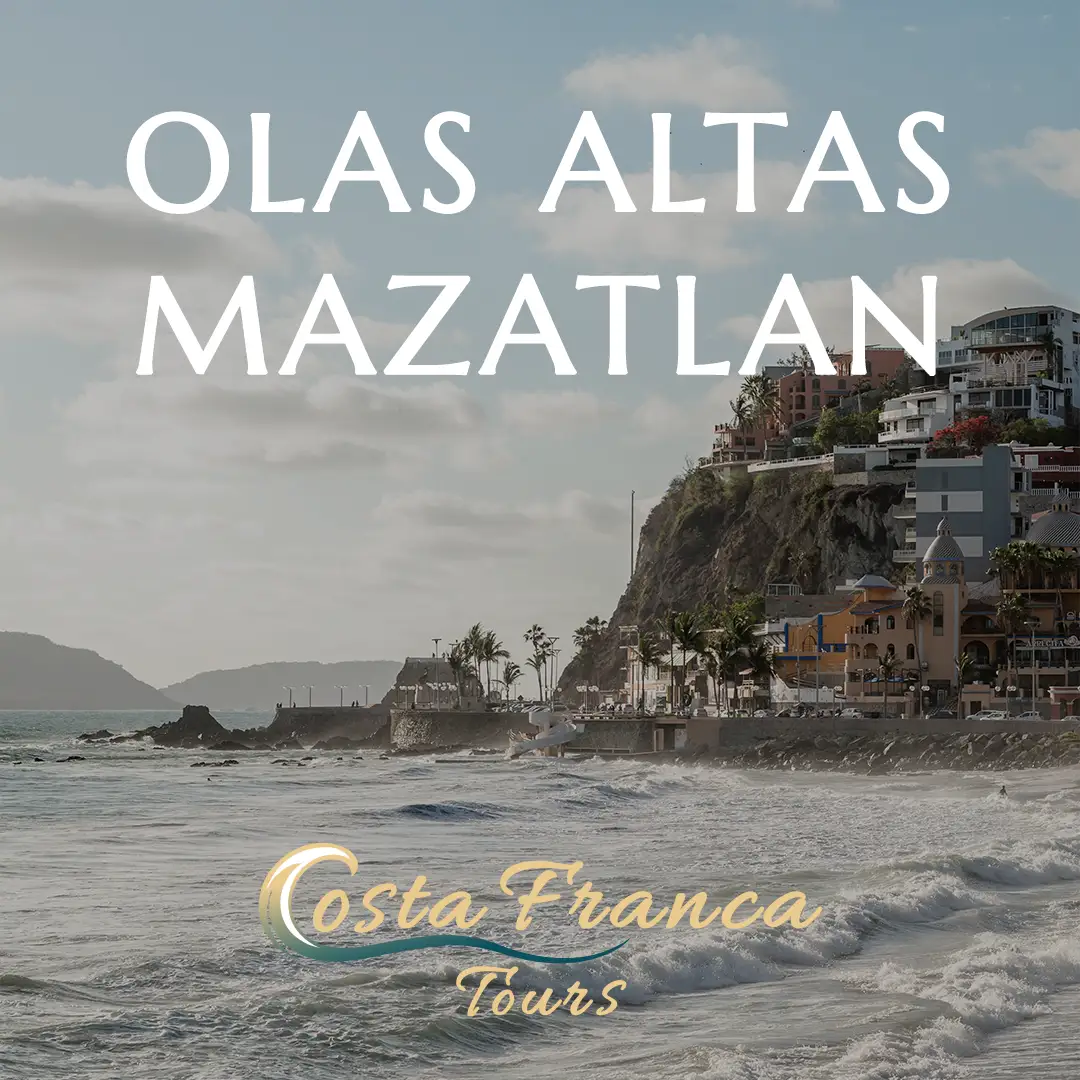
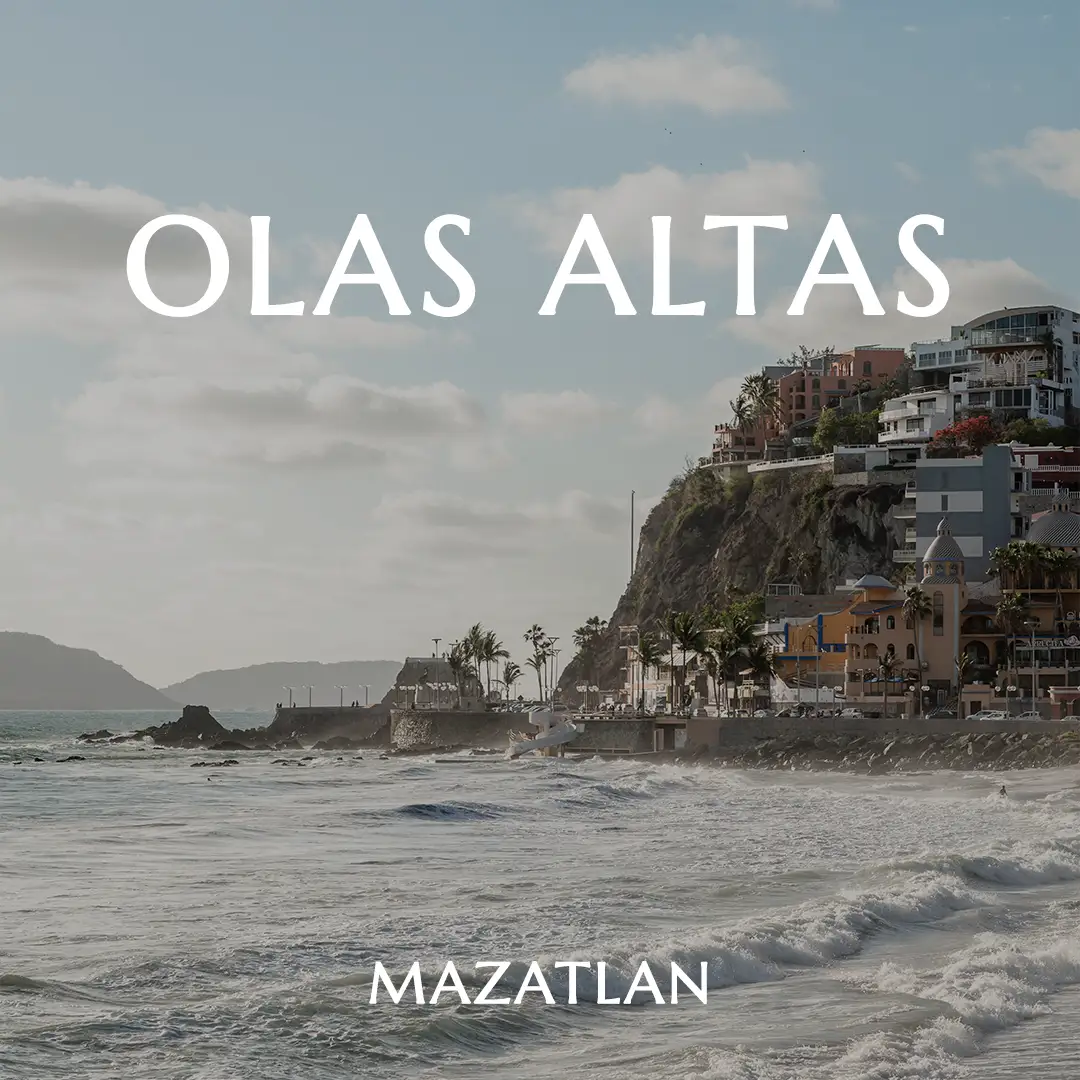
feat(blog): render social images in article; fix twitterImage path, OG MIME types & SEO
Fixes and improvements scoped entirely to the blog. No changes to tours,
homepage, or any shared layout outside of blog routes.

Bug fixes
- Fix twitterImage filename typo in posts.ts: "xcard-olas-altas.webp" →
  "x-card-olas-altas.webp" (file was resolving to a 404)
- Fix OG image MIME type declarations from "image/jpeg" to "image/webp"
  in both [slug]/page.tsx and blog/page.tsx
- Replace hardcoded i18n ternaries in social section with existing t()
  keys: blog_share_label, blog_pin, blog_share_on

Features
- Add social images section to article layout ([slug]/page.tsx): renders
  Pinterest (2:3), Instagram (1:1), and X/Twitter (16:9) crops as visible
  clickable cards that link to each platform's native share/save intent
- Blog listing page (blog/page.tsx) now uses posts[0].ogImage as its OG
  image instead of the generic OP.jpg, with a graceful fallback when no
  posts exist

SEO
- Expand tags/tagsEn with long-tail keywords targeting Mazatlán travel
  searches (e.g. "things to do in Mazatlan", "Hotel Belmar Mazatlan")
- Rewrite excerpt/excerptEn to ~155 chars with primary keyword in the
  opening clause for better meta description CTR
- Enrich all image alt/altEn with landmark names and location context
- Add CTA closing paragraph (ES + EN) funneling readers to Costa Franca Tours
- Minor content improvements: Cerro de la Nevería etymology, geo-specific
  phrasing throughout the article body

Changed region(s): [[0.1222, 0.0917, 0.8861, 0.3667], [0.2139, 0.7639, 0.7639, 0.9472]]

diff --git a/src/lib/posts.ts b/src/lib/posts.ts
@@ -47,13 +47,14 @@ export const posts: BlogPost[] = [
   {
     id: "1",
     slug: "olas-altas-mazatlan",
-    title: "Descubre Olas Altas: El Corazón Histórico y Vibrante del Malecón",
+    title:
+      "Descubre Olas Altas: El Corazón Histórico y Vibrante del Malecón de Mazatlán",
     titleEn:
       "Discover Olas Altas: The Historic and Vibrant Heart of the Mazatlán Malecon",
     excerpt:
-      "Descubre por qué Olas Altas es una parada obligatoria en el Malecón de Mazatlán. Conoce su playa, su historia, sus atardeceres y los mejores lugares para comer.",
+      "Descubre por qué Olas Altas es una parada obligatoria en el Malecón de Mazatlán. Explora su playa histórica, sus icónicos atardeceres del Pacífico y los mejores restaurantes frente al mar.",
     excerptEn:
-      "Discover why Olas Altas is a must-visit spot on the Mazatlán Malecon. Explore its famous beach, rich history, breathtaking sunsets, and top oceanfront restaurants.",
+      "Discover why Olas Altas is a must-visit spot on the Mazatlán Malecon. Explore its famous beach, breathtaking Pacific sunsets, iconic landmarks like Hotel Belmar, and the best oceanfront restaurants.",
     date: "2026-06-18",
     lastModified: "2026-06-18",
     author: "Juan C. Wong",
@@ -64,15 +65,30 @@ export const posts: BlogPost[] = [
       "Mazatlán",
       "Olas Altas",
       "Centro Histórico",
-      "Malecón",
-      "atardeceres",
+      "Malecón de Mazatlán",
+      "atardeceres en Mazatlán",
+      "qué hacer en Mazatlán",
+      "turismo Mazatlán",
+      "playas de Mazatlán",
+      "Hotel Belmar",
+      "Colegio Pacífico",
     ],
-    tagsEn: ["Mazatlan", "Water Front", "Sunsets", "Historic Center"],
+    tagsEn: [
+      "Mazatlan",
+      "Olas Altas beach",
+      "Mazatlan Malecon",
+      "Mazatlan Historic Center",
+      "Mazatlan sunsets",
+      "things to do in Mazatlan",
+      "Mazatlan travel guide",
+      "Hotel Belmar Mazatlan",
+      "Icebox Hill Mazatlan",
+    ],
 
     // Social Images
     ogImage: "/images/blog/olas-altas/op-olas-altas.webp",
     pinterestImage: "/images/blog/olas-altas/pinterest-olas-altas.webp",
-    twitterImage: "/images/blog/olas-altas/xcard-olas-altas.webp",
+    twitterImage: "/images/blog/olas-altas/x-card-olas-altas.webp",
     instagramImage: "/images/blog/olas-altas/instagram-olas-altas.webp",
 
     // In-body Images
@@ -80,7 +96,8 @@ export const posts: BlogPost[] = [
       {
         src: "/images/blog/olas-altas/olas-altas-manana.webp",
         alt: "Vista matutina de la playa de Olas Altas y el Cerro de la Nevería en Mazatlán",
-        altEn: "Morning view of Olas Altas beach and Icebox Hill in Mazatlán",
+        altEn:
+          "Morning view of Olas Altas beach and Icebox Hill (Cerro de la Nevería) in Mazatlán",
         width: 1200,
         height: 800,
         caption:
@@ -91,8 +108,9 @@ export const posts: BlogPost[] = [
       },
       {
         src: "/images/blog/olas-altas/olas-altas-atardecer.webp",
-        alt: "Atardecer espectacular con olas en el malecón de Olas Altas",
-        altEn: "Spectacular sunset with waves at the Olas Altas malecon",
+        alt: "Atardecer espectacular con olas rompiendo en el malecón de Olas Altas, Mazatlán",
+        altEn:
+          "Spectacular Pacific sunset with waves crashing at the Olas Altas malecon in Mazatlán",
         width: 1200,
         height: 800,
         caption:
@@ -103,9 +121,9 @@ export const posts: BlogPost[] = [
       },
       {
         src: "/images/blog/olas-altas/olas-altas-pin.webp",
-        alt: "Vista vertical del oleaje rompiendo en las rocas frente al antiguo Colegio Pacífico",
+        alt: "Vista vertical del oleaje rompiendo en las rocas frente al antiguo Colegio Pacífico en Mazatlán",
         altEn:
-          "Vertical view of waves crashing on the rocks in front of the old Colegio Pacífico",
+          "Vertical view of Pacific waves crashing on the rocks in front of the historic Colegio Pacífico building in Mazatlán",
         width: 800,
         height: 1200,
         caption:
@@ -120,25 +138,27 @@ export const posts: BlogPost[] = [
       "Visitar la Perla del Pacífico y no recorrer Olas Altas es, casi literalmente, un pecado turístico. Esta emblemática sección del Malecón de Mazatlán es donde convergen la historia, la belleza natural y la vibrante vida social del puerto.",
       "Conectando de manera fluida con el pintoresco Paseo Claussen, Olas Altas goza de una ubicación privilegiada justo a las puertas del Centro Histórico. Para que te des una idea de su excelente conectividad, se encuentra a tan solo cuatro cuadras de la animada Plazuela Machado y a ocho de la majestuosa Catedral de Mazatlán.",
       "Caminar por esta zona durante la mañana y hacerlo por la tarde son experiencias totalmente diferentes, pero igualmente cautivadoras.",
-      "Si decides dar un paseo matutino, te recibirá el resplandor de un mar azul profundo. Desde el malecón, podrás admirar la colorida arquitectura de las impresionantes mansiones que adornan el Cerro de la Nevería.",
+      "Si decides dar un paseo matutino, te recibirá el resplandor de un mar azul profundo. Desde el malecón, podrás admirar la colorida arquitectura de las impresionantes mansiones que adornan el Cerro de la Nevería, el antiguo cerro donde se almacenaba hielo para abastecer a la ciudad portuaria.",
       "Además, las mañanas son el momento perfecto para bajar a la arena, refrescarte y nadar en una de las playas más populares y con más historia desde la fundación de la ciudad.",
       "A medida que el sol comienza a bajar, la zona se transforma. Este es, sin duda, uno de los mejores puntos para apreciar el inigualable atardecer de Mazatlán. No hay nada como disfrutar de la fresca brisa del mar y escuchar cómo las olas revientan con fuerza contra las rocas mientras degustas una bebida bien fría.",
       "Olas Altas es mucho más que un paisaje; es el corazón social del puerto. Es el lugar predilecto de los mazatlecos de todas las edades para socializar, caminar y compartir tiempo con amigos y familiares. Gracias a su encanto, también es una zona muy frecuentada por la comunidad de extranjeros residentes.",
       "Si buscas practicar tu inglés u otros idiomas, el ambiente relajado del malecón lo convierte en el escenario ideal para hacer networking casual, conocer gente de todo el mundo y crear conexiones genuinas.",
-      "Tu visita no estaría completa sin explorar la oferta culinaria y arquitectónica de la zona. Olas Altas aloja una excelente selección de restaurantes y cafés con vista al mar, ideales para un desayuno relajado o una cena romántica.",
+      "Tu visita no estaría completa sin explorar la oferta culinaria y arquitectónica de la zona. Olas Altas aloja una excelente selección de restaurantes y cafés con vista al mar, ideales para un desayuno relajado con vistas al Pacífico o una cena romántica al ritmo de las olas.",
       "Aquí también se erigen icónicos edificios que son verdaderas joyas históricas del puerto, destacando el Hotel Belmar, el Hotel Freeman y el histórico Colegio Pacífico. Estas propiedades datan casi desde la constitución de la ciudad como destino turístico y visitarlas es viajar en el tiempo a la época dorada de Mazatlán.",
+      "¿Listo para vivirlo tú mismo? En Costa Franca Tours te llevamos a descubrir los rincones más auténticos del puerto. Contáctanos y diseña tu experiencia perfecta en Mazatlán.",
     ],
     contentEn: [
       "Visiting the Pearl of the Pacific without strolling through Olas Altas is practically a tourist sin. This iconic section of the Mazatlán Malecon is where rich history, natural beauty, and the port's vibrant social life seamlessly converge.",
       "Flowing directly into the scenic Paseo Claussen, Olas Altas boasts a prime oceanfront location right at the gates of the Historic Center (Centro Histórico). To give you an idea of its excellent connectivity, it sits just four blocks away from the lively Plazuela Machado and eight blocks from the majestic Mazatlán Cathedral.",
       "Walking through this area in the morning versus the afternoon offers two entirely different, yet equally captivating, experiences.",
-      "If you opt for a morning stroll, you'll be greeted by the sparkling deep blue sea. From the boardwalk, you can admire the colorful architecture of the stunning mansions perched on Icebox Hill (Cerro de la Nevería).",
+      "If you opt for a morning stroll, you'll be greeted by the sparkling deep blue sea. From the boardwalk, you can admire the colorful architecture of the stunning mansions perched on Icebox Hill (Cerro de la Nevería) — the historic hilltop once used to store ice for the port city.",
       "Furthermore, mornings are the perfect time to step down onto the sand, cool off, and swim in one of the most popular and historically significant beaches since the city's foundation.",
-      "As the sun begins to set, the area completely transforms. This is undoubtedly one of the best spots to witness an unparalleled Mazatlán sunset. There is nothing quite like enjoying the cool ocean breeze and listening to the crashing waves against the rocks while sipping on an ice-cold drink.",
-      "Olas Altas is much more than a beautiful landscape; it is the social heart of the port. It's the favorite gathering place for locals of all ages to socialize, walk, and spend quality time with friends and family. Thanks to its charm, it is also a highly frequented hub for the resident expat community.",
+      "As the sun begins to set, the area completely transforms. This is undoubtedly one of the best spots in Mazatlán to witness an unparalleled Pacific sunset. There is nothing quite like enjoying the cool ocean breeze and listening to the waves crash against the rocks while sipping on an ice-cold drink.",
+      "Olas Altas is much more than a beautiful landscape; it is the social heart of the port. It's the favorite gathering place for Mazatlán locals of all ages to socialize, walk, and spend quality time with friends and family. Thanks to its charm, it is also a highly frequented hub for the resident expat community.",
       "If you're looking to practice your Spanish or mingle with other travelers, the relaxed atmosphere of the boardwalk makes it the ideal setting for casual networking, meeting people from all over the world, and building genuine connections.",
-      "Your visit wouldn't be complete without exploring the culinary and architectural offerings of the area. Olas Altas hosts an excellent selection of oceanfront restaurants and cafes, perfect for a laid-back breakfast or a romantic sunset dinner.",
+      "Your visit wouldn't be complete without exploring the culinary and architectural offerings of the area. Olas Altas hosts an excellent selection of oceanfront restaurants and cafes, perfect for a laid-back Pacific-view breakfast or a romantic sunset dinner with the sound of the waves.",
       "Here, you will also find iconic buildings that stand as true historical jewels of the port, most notably the Hotel Belmar, the Hotel Freeman, and the historic Colegio Pacífico. These properties date back to the early days of the city's establishment as a tourist destination, and visiting them is like traveling back in time to the golden age of Mazatlán.",
+      "Ready to experience it for yourself? At Costa Franca Tours, we take you to discover the most authentic corners of the port. Contact us today and design your perfect Mazatlán experience.",
     ],
   },
 ];

diff --git a/src/app/blog/[slug]/page.tsx b/src/app/blog/[slug]/page.tsx
@@ -1,7 +1,7 @@
 import { notFound } from "next/navigation";
 import Image from "next/image";
 import Link from "next/link";
-import { ArrowLeft, Calendar, User, Clock, Tag } from "lucide-react";
+import { ArrowLeft, Calendar, User, Clock, Tag, Share2 } from "lucide-react";
 import { cookies } from "next/headers";
 import type { Metadata } from "next";
 import { posts, getPostBySlug, formatDate } from "@/lib/posts";
@@ -31,12 +31,13 @@ export async function generateMetadata({
   const pageUrl = `${baseUrl}/blog/${post.slug}`;
 
   // All images for OG — hero first, then body images (landscape preferred for cards)
+  // fix: MIME type corrected from "image/jpeg" to "image/webp" for .webp files
   const ogImages = [
     {
       url: `${baseUrl}${post.ogImage}`,
       width: 1200,
       height: 630,
-      type: "image/jpeg",
+      type: "image/webp",
       alt: post.titleEn ?? post.title,
     },
     ...(post.images ?? [])
@@ -45,7 +46,7 @@ export async function generateMetadata({
         url: `${baseUrl}${img.src}`,
         width: img.width,
         height: img.height,
-        type: "image/jpeg",
+        type: "image/webp",
         alt: img.altEn ?? img.alt,
       })),
   ];
@@ -174,6 +175,13 @@ export default async function BlogPostPage({
   });
 
   const images = post.images ?? [];
+
+  // ── i18n labels for the social images section ──────────────────────────────
+  // Use existing dictionary keys — no hardcoded strings needed.
+  const socialSectionLabel = t("blog_share_label");
+  const pinterestLabel = t("blog_pin");
+  const instagramLabel = `${t("blog_share_on")} Instagram`;
+  const xCardLabel = `${t("blog_share_on")} X / Twitter`;
 
   return (
     <>
@@ -336,6 +344,138 @@ export default async function BlogPostPage({
                 ))}
               </div>
             )}
+
+            {/* ── Social images section ──────────────────────────────────────
+                Renders the optimised social crops (Pinterest 2:3, Instagram 1:1,
+                X/Twitter 16:9) so they're visible in the article, not just in
+                <head> meta tags.  Each image is wrapped in the platform's share
+                URL so clicking it opens the native share intent.
+            ─────────────────────────────────────────────────────────────────── */}
+            <section
+              aria-label={socialSectionLabel}
+              className="mt-12 pt-8 border-t border-gray-100"
+            >
+              <div className="flex items-center gap-2 mb-6">
+                <Share2
+                  className="w-4 h-4 text-gold"
+                  aria-hidden="true"
+                />
+                <span className="text-xs font-bold uppercase tracking-wider text-navy/50">
+                  {socialSectionLabel}
+                </span>
+              </div>
+
+              <div className="grid grid-cols-1 sm:grid-cols-3 gap-4">
+                {/* Pinterest — 2:3 portrait */}
+                <a
+                  href={`https://pinterest.com/pin/create/button/?url=${encodeURIComponent(canonicalUrl)}&media=${encodeURIComponent(`${baseUrl}${post.pinterestImage}`)}&description=${encodeURIComponent(excerpt)}`}
+                  target="_blank"
+                  rel="noopener noreferrer"
+                  className="group relative block overflow-hidden rounded-xl border border-navy/8 focus-visible:ring-2 focus-visible:ring-gold focus-visible:outline-none"
+                  aria-label={pinterestLabel}
+                  style={{ boxShadow: "0 2px 12px rgba(26,58,80,0.07)" }}
+                >
+                  <div className="relative w-full aspect-[2/3] bg-navy/5">
+                    <Image
+                      src={post.pinterestImage}
+                      alt={`${title} — Pinterest`}
+                      fill
+                      className="object-cover transition-transform duration-500 group-hover:scale-105"
+                      sizes="(max-width: 640px) 100vw, 33vw"
+                    />
+                    <div
+                      className="absolute inset-0 bg-gradient-to-t from-navy/60 via-transparent to-transparent"
+                      aria-hidden="true"
+                    />
+                    <span className="absolute bottom-3 left-3 right-3 inline-flex items-center gap-1.5 text-white text-xs font-bold uppercase tracking-wider">
+                      {/* Pinterest P icon */}
+                      <svg
+                        viewBox="0 0 24 24"
+                        className="w-4 h-4 fill-current shrink-0"
+                        aria-hidden="true"
+                      >
+                        <path d="M12 0C5.373 0 0 5.373 0 12c0 5.084 3.163 9.426 7.627 11.174-.105-.949-.2-2.405.042-3.441.218-.937 1.407-5.965 1.407-5.965s-.359-.719-.359-1.782c0-1.668.967-2.914 2.171-2.914 1.023 0 1.518.769 1.518 1.69 0 1.029-.655 2.568-.994 3.995-.283 1.194.599 2.169 1.777 2.169 2.133 0 3.772-2.249 3.772-5.495 0-2.873-2.064-4.882-5.012-4.882-3.414 0-5.418 2.561-5.418 5.207 0 1.031.397 2.138.893 2.738a.36.36 0 0 1 .083.345l-.333 1.36c-.053.22-.174.267-.402.161-1.499-.698-2.436-2.889-2.436-4.649 0-3.785 2.75-7.262 7.929-7.262 4.163 0 7.398 2.967 7.398 6.931 0 4.136-2.607 7.464-6.227 7.464-1.216 0-2.359-.632-2.75-1.378l-.748 2.853c-.271 1.043-1.002 2.35-1.492 3.146C9.57 23.812 10.763 24 12 24c6.627 0 12-5.373 12-12S18.627 0 12 0z" />
+                      </svg>
+                      Pinterest
+                    </span>
+                  </div>
+                </a>
+
+                {/* Instagram — 1:1 square */}
+                {post.instagramImage && (
+                  <a
+                    href={`https://www.instagram.com/`}
+                    target="_blank"
+                    rel="noopener noreferrer"
+                    className="group relative block overflow-hidden rounded-xl border border-navy/8 focus-visible:ring-2 focus-visible:ring-gold focus-visible:outline-none"
+                    aria-label={instagramLabel}
+                    style={{ boxShadow: "0 2px 12px rgba(26,58,80,0.07)" }}
+                  >
+                    <div className="relative w-full aspect-square bg-navy/5">
+                      <Image
+                        src={post.instagramImage}
+                        alt={`${title} — Instagram`}
+                        fill
+                        className="object-cover transition-transform duration-500 group-hover:scale-105"
+                        sizes="(max-width: 640px) 100vw, 33vw"
+                      />
+                      <div
+                        className="absolute inset-0 bg-gradient-to-t from-navy/60 via-transparent to-transparent"
+                        aria-hidden="true"
+                      />
+                      <span className="absolute bottom-3 left-3 right-3 inline-flex items-center gap-1.5 text-white text-xs font-bold uppercase tracking-wider">
+                        {/* Instagram gradient icon */}
+                        <svg
+                          viewBox="0 0 24 24"
+                          className="w-4 h-4 fill-current shrink-0"
+                          aria-hidden="true"
+                        >
+                          <path d="M12 2.163c3.204 0 3.584.012 4.85.07 3.252.148 4.771 1.691 4.919 4.919.058 1.265.069 1.645.069 4.849 0 3.205-.012 3.584-.069 4.849-.149 3.225-1.664 4.771-4.919 4.919-1.266.058-1.644.07-4.85.07-3.204 0-3.584-.012-4.849-.07-3.26-.149-4.771-1.699-4.919-4.92-.058-1.265-.07-1.644-.07-4.849 0-3.204.013-3.583.07-4.849.149-3.227 1.664-4.771 4.919-4.919 1.266-.057 1.645-.069 4.849-.069zm0-2.163c-3.259 0-3.667.014-4.947.072-4.358.2-6.78 2.618-6.98 6.98-.059 1.281-.073 1.689-.073 4.948 0 3.259.014 3.668.072 4.948.2 4.358 2.618 6.78 6.98 6.98 1.281.058 1.689.072 4.948.072 3.259 0 3.668-.014 4.948-.072 4.354-.2 6.782-2.618 6.979-6.98.059-1.28.073-1.689.073-4.948 0-3.259-.014-3.667-.072-4.947-.196-4.354-2.617-6.78-6.979-6.98-1.281-.059-1.69-.073-4.949-.073zm0 5.838c-3.403 0-6.162 2.759-6.162 6.162s2.759 6.163 6.162 6.163 6.162-2.759 6.162-6.163c0-3.403-2.759-6.162-6.162-6.162zm0 10.162c-2.209 0-4-1.79-4-4 0-2.209 1.791-4 4-4s4 1.791 4 4c0 2.21-1.791 4-4 4zm6.406-11.845c-.796 0-1.441.645-1.441 1.44s.645 1.44 1.441 1.44c.795 0 1.439-.645 1.439-1.44s-.644-1.44-1.439-1.44z" />
+                        </svg>
+                        Instagram
+                      </span>
+                    </div>
+                  </a>
+                )}
+
+                {/* X / Twitter — 16:9 */}
+                {post.twitterImage && (
+                  <a
+                    href={`https://twitter.com/intent/tweet?url=${encodeURIComponent(canonicalUrl)}&text=${encodeURIComponent(title)}`}
+                    target="_blank"
+                    rel="noopener noreferrer"
+                    className="group relative block overflow-hidden rounded-xl border border-navy/8 focus-visible:ring-2 focus-visible:ring-gold focus-visible:outline-none"
+                    aria-label={xCardLabel}
+                    style={{ boxShadow: "0 2px 12px rgba(26,58,80,0.07)" }}
+                  >
+                    <div className="relative w-full aspect-video bg-navy/5">
+                      <Image
+                        src={post.twitterImage}
+                        alt={`${title} — X / Twitter`}
+                        fill
+                        className="object-cover transition-transform duration-500 group-hover:scale-105"
+                        sizes="(max-width: 640px) 100vw, 33vw"
+                      />
+                      <div
+                        className="absolute inset-0 bg-gradient-to-t from-navy/60 via-transparent to-transparent"
+                        aria-hidden="true"
+                      />
+                      <span className="absolute bottom-3 left-3 right-3 inline-flex items-center gap-1.5 text-white text-xs font-bold uppercase tracking-wider">
+                        {/* X (Twitter) icon */}
+                        <svg
+                          viewBox="0 0 24 24"
+                          className="w-4 h-4 fill-current shrink-0"
+                          aria-hidden="true"
+                        >
+                          <path d="M18.244 2.25h3.308l-7.227 8.26 8.502 11.24H16.17l-4.714-6.231-5.401 6.231H2.746l7.73-8.835L1.254 2.25H8.08l4.713 6.231zm-1.161 17.52h1.833L7.084 4.126H5.117z" />
+                        </svg>
+                        X / Twitter
+                      </span>
+                    </div>
+                  </a>
+                )}
+              </div>
+            </section>
 
             {/* Social share bar */}
             <SocialShareBar

diff --git a/src/app/blog/page.tsx b/src/app/blog/page.tsx
@@ -22,8 +22,29 @@ export async function generateMetadata(): Promise<Metadata> {
     : "Blog de Viajes · Guías y Consejos para Mazatlán";
 
   const description = isEn
-    ? "Guides, tips, and stories to make the most of Mazatlán and Mexico's Pacific coast. Written by Costa Franca Tours."
-    : "Guías, consejos e historias para disfrutar Mazatlán al máximo. Escrito por Costa Franca Tours.";
+    ? "Guides, tips, and insider stories to make the most of Mazatlán and Mexico's Pacific coast. Written by Costa Franca Tours — your local experts."
+    : "Guías, consejos e historias de viaje para disfrutar Mazatlán al máximo. Escrito por Costa Franca Tours, tus expertos locales en el Pacífico mexicano.";
+
+  const heroImage =
+    posts.length > 0
+      ? {
+          url: `${baseUrl}${posts[0].ogImage}`,
+          width: 1200,
+          height: 630,
+          type: "image/webp",
+          alt: isEn
+            ? "Costa Franca Tours Travel Blog"
+            : "Blog de Viajes Costa Franca Tours",
+        }
+      : {
+          url: `${baseUrl}/images/OP.jpg`,
+          width: 1200,
+          height: 630,
+          type: "image/jpeg",
+          alt: isEn
+            ? "Costa Franca Tours Travel Blog"
+            : "Blog de Viajes Costa Franca Tours",
+        };
 
   return {
     title,
@@ -38,21 +59,13 @@ export async function generateMetadata(): Promise<Metadata> {
       url: pageUrl,
       type: "website",
       locale: isEn ? "en_US" : "es_MX",
-      images: [
-        {
-          url: `${baseUrl}/images/OP.jpg`,
-          width: 1200,
-          height: 630,
-          alt: isEn
-            ? "Costa Franca Tours Travel Blog"
-            : "Blog de Viajes Costa Franca Tours",
-        },
-      ],
+      images: [heroImage],
     },
     twitter: {
       card: "summary_large_image",
       title,
       description,
+      images: [heroImage.url],
     },
   };
 }
